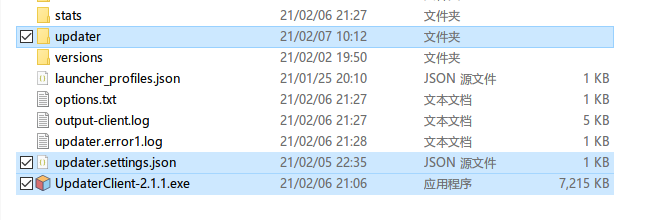
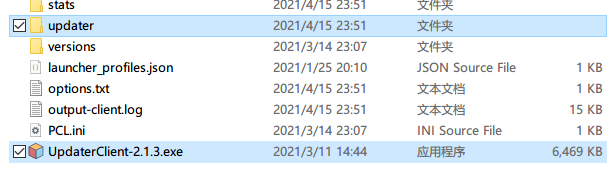
增加了interface配置项目、配置文件现在和热更新包放在一起了

diff --git a/客户端安装教程.md b/客户端安装教程.md
@@ -1,13 +1,16 @@
 # 客户端安装教程
 
-1. 下载updater客户端zip包并将所有文件解压至`.minecraft`目录下
-2. 如果喜欢，可以将`UpdaterClient-2.1.1.exe`命名为任何自己喜欢的文件名，我这里保持默认
-3. 在`.minecraft`文件夹下创建一个叫`updater`的目录
-4. ![客户端部署_解压到.mc下](客户端安装教程/客户端部署_解压到.mc下.png)
-5. 下载热更新包，并将`UpdaterHotupdatePackage.exe`文件解压到放到刚刚创建好的`updater`目录里
-6. ![1.4客户端部署_updater文件夹里](客户端安装教程/客户端部署_updater文件夹里.png)
-7. 修改`updater.settings.json`（参考下方配置文件介绍）
-8. 配置完毕，启动测试吧
+1. 下载updater客户端zip包并将zip包里面的文件解压至`.minecraft`目录下
+2. （对于之前的老用户：客户端配置文件已从客户端zip包内移动到热更新包里面了）
+3. 如果喜欢，可以将`UpdaterClient-2.1.1.exe`命名为任何自己喜欢的文件名，我这里保持默认
+4. 在`.minecraft`文件夹下创建一个叫`updater`的目录
+5. ![客户端部署_解压到.mc下](客户端安装教程/客户端部署_解压到.mc下.png)
+6. 下载热更新包，并将`UpdaterHotupdatePackage.exe`文件解压到放到刚刚创建好的`updater`目录里
+7. ![1.4客户端部署_updater文件夹里](客户端安装教程/客户端部署_updater文件夹里.png)
+8. 再将热更新包里面的`updater.settings.json`解压到上级的`.minecraft`目录里
+9. ![客户端部署_解压到配置文件](客户端安装教程/客户端部署_解压到配置文件.png)
+10. 修改`updater.settings.json`（参考下方配置文件介绍）
+11. 配置完毕，启动测试吧
 
 ---
 
@@ -29,7 +32,7 @@
     "error_message": "是否需要打开服务器官网下载完整客户端?",
     "error_help": "start https://www.baidu.com",
     "cef_with_httpserver": false,
-    "hold_ui": true
+    "hold_ui": false
 }
 ```
 
@@ -39,7 +42,7 @@
 
 ## visible_time
 
-设置了更新完毕后延迟多少ms退出，不建议太长，一般500或者500以下就好，如果还是觉得太慢，可以设为0
+（可选参数）设置了更新完毕后延迟多少ms退出，不建议太长，一般500或者500以下就好，如果还是觉得太慢，可以设为0
 
 ## width
 
@@ -71,7 +74,15 @@
 
 ## hold_ui
 
-（可选参数，默认false）文件更新完毕后是否显示一个按钮手动退出（默认是自动退出）
+（高级可选参数，默认false）文件更新完毕后是否显示一个按钮手动退出（默认是自动退出），在调试界面时非常有用。
+
+## interface
+
+（高级可选参数）用外部URL来代替内部的界面资源（但如果遇到网络问题可能会无法正常显示界面）。
+
+此功能是自定义界面功能的一部分，自定义界面大多都是将web文件放在热更新包旁边，但使用此功能可以直接加载远程URL作为界面资源，对界面资源修改频繁的服来说特别有用。
+
+
 
 # 跟随启动
 

diff --git a/静态服务端安装.md b/静态服务端安装.md
@@ -5,7 +5,7 @@
 1. 下载并解压服务端Zip包，文件如下
 2. ![static-server](静态服务端安装/static-server.png)
 3. 下载小工具，先不用解压，后面会用到这些小工具
-5. 下载热更新包，并将`UpdaterHotupdatePackage.exe`文件解压到服务端`hotupdate`目录里
+5. 下载热更新包，并将`UpdaterHotupdatePackage.exe`文件（只解压这一个文件！）解压到服务端`hotupdate`目录里
 5. 如果使用带`console`后缀的版本需要将文件名修改成与下图保持一致
 6. ![static-server-hu-package](静态服务端安装/static-server-hu-package.png)
 7. 无论何时，想要查看热更新包的版本，请点击**右键->属性->详细信息->产品版本**

diff --git a/PHP服务端安装.md b/PHP服务端安装.md
@@ -6,7 +6,7 @@
 
 1. 解压已经下载好的updater服务端Zip包，解压之后文件如下
 2. ![dynamic-server](PHP服务端安装/dynamic-server.png)
-3. 解压已经下载好的热更新包，并将`UpdaterHotupdatePackage.exe`文件解压到服务端`hotupdate`目录下
+3. 解压已经下载好的热更新包，并将`UpdaterHotupdatePackage.exe`文件（只解压这一个文件！）解压到服务端`hotupdate`目录下
 4. 如果使用的是带`console`后缀的版本需要将文件名修改成与下图保持一致
 5. ![dynamic-server-hu-package](PHP服务端安装/dynamic-server-hu-package.png)
 6. 无论何时，想要查看热更新包的版本，请点击**右键->属性->详细信息->产品版本**
